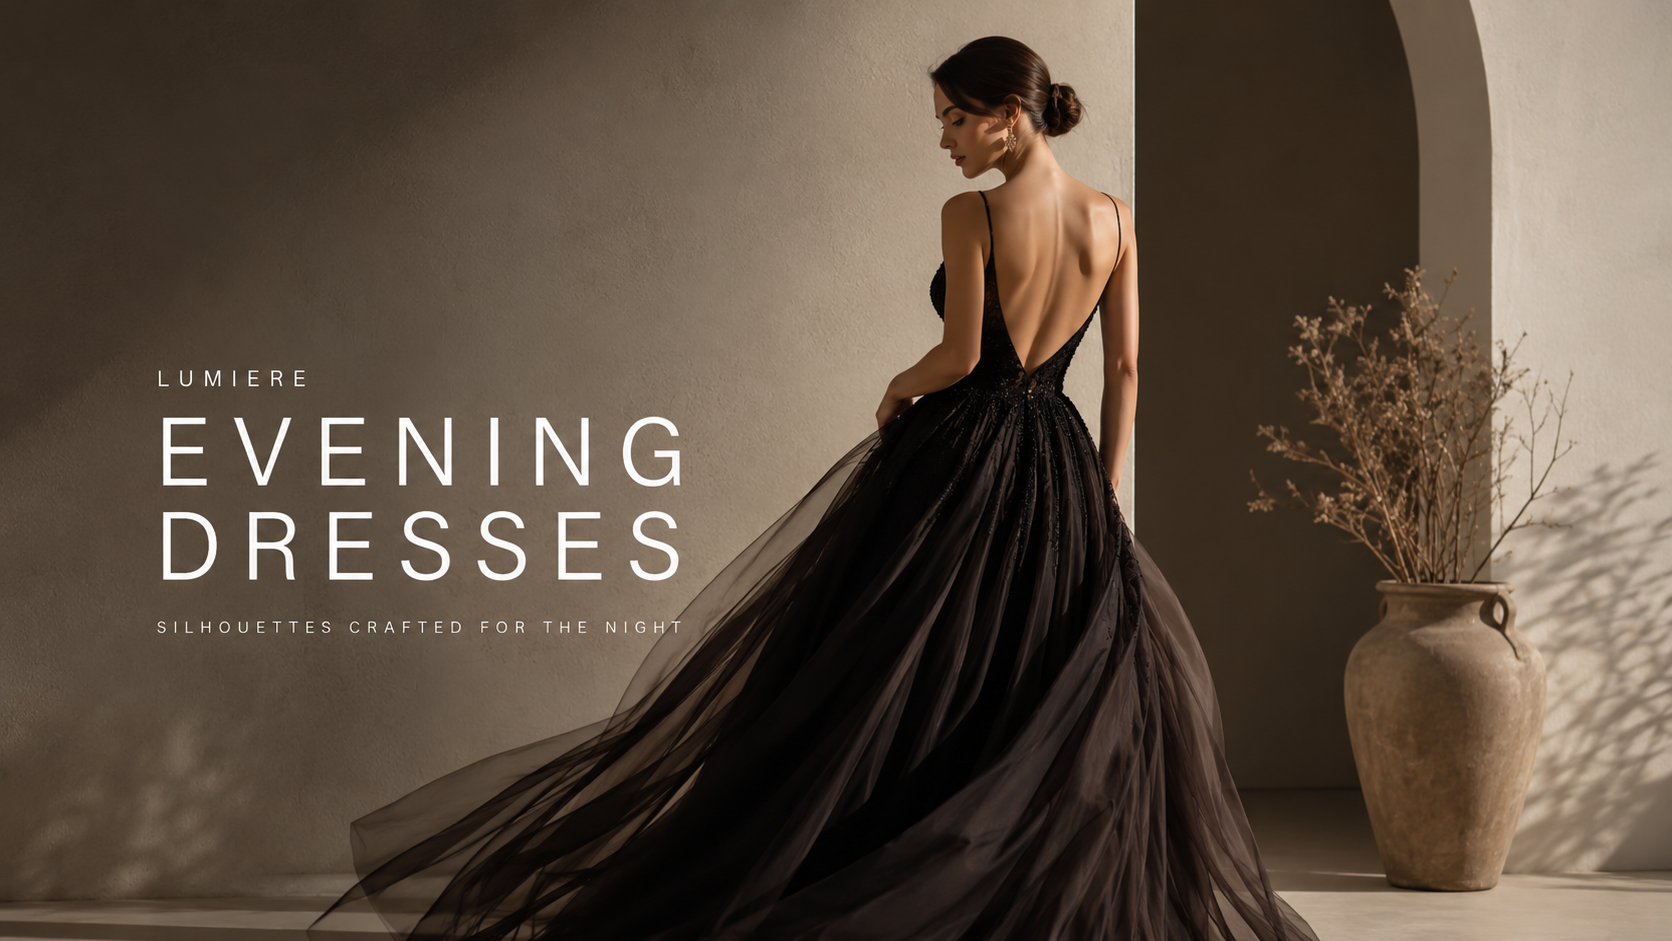
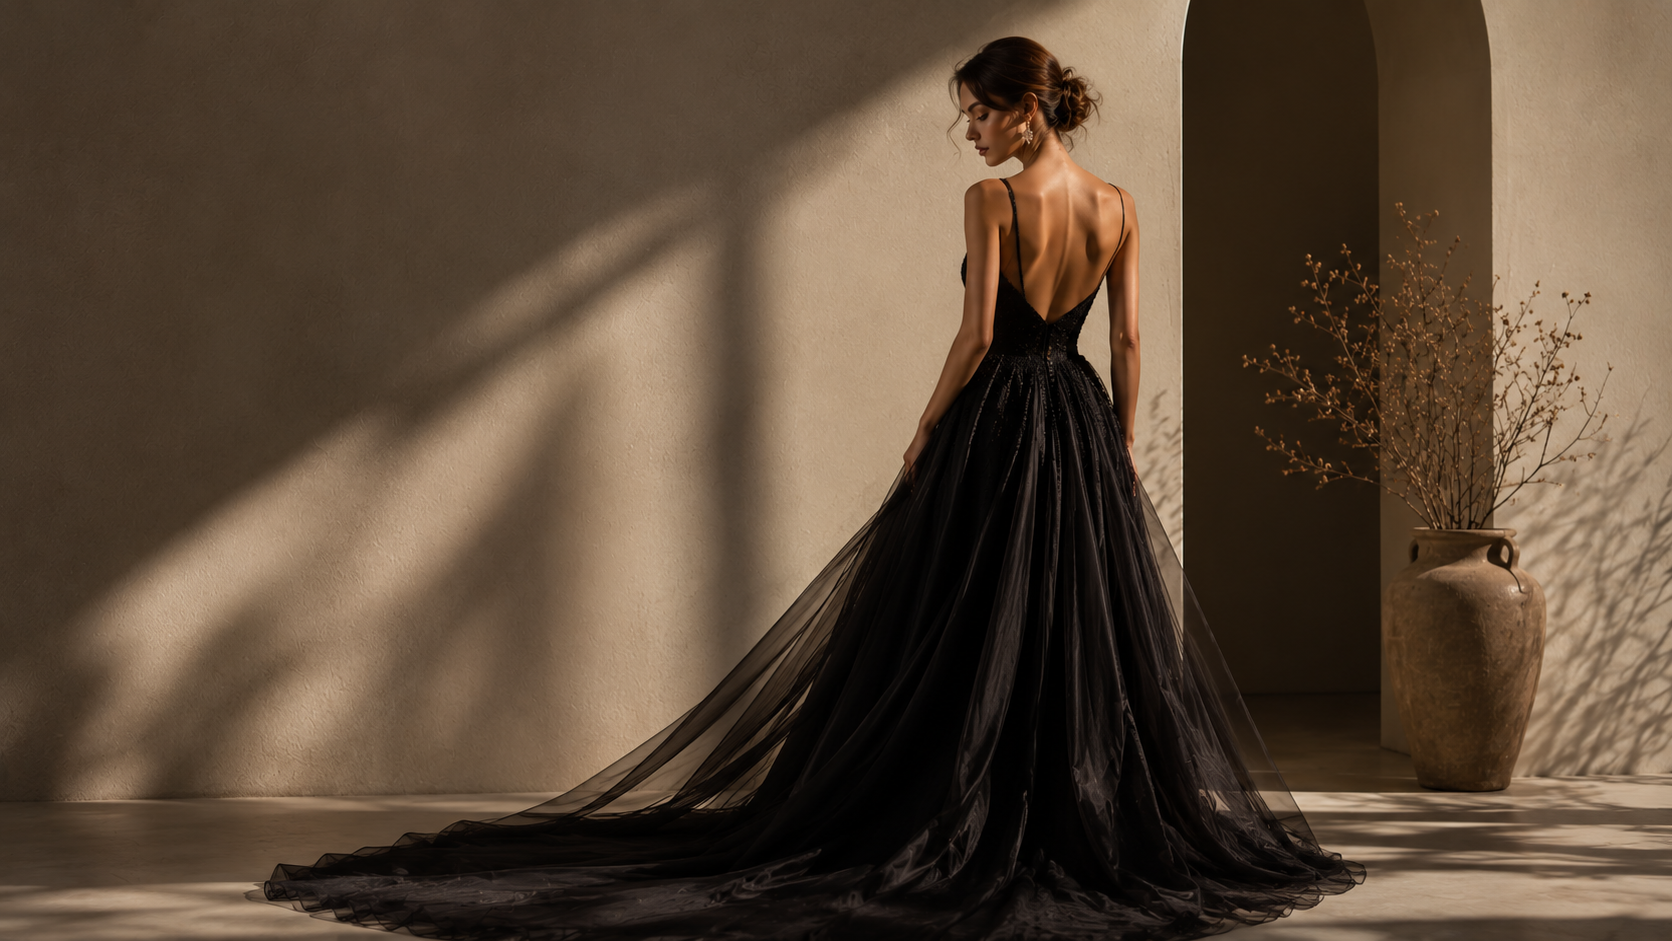
New hero image, scroll rotation effect, remove bottom gap

diff --git a/pages/evening-dresses.html b/pages/evening-dresses.html
@@ -138,6 +138,11 @@ COLLECTION HERO
 <section class="collection-hero">
 
 
+<img class="collection-hero-img"
+src="../images/evening-hero.png"
+alt="LUMIERE Evening Dresses">
+
+
 <div class="collection-hero-mask">
 </div>
 
@@ -548,6 +553,47 @@ sideMenu.classList.add("active");
 
 closeMenu.onclick=function(){
 sideMenu.classList.remove("active");
+}
+
+
+
+
+/* =====================
+HERO SCROLL ROTATION
+As user scrolls, the hero image
+subtly rotates on Y-axis, creating
+a model "turning" illusion.
+===================== */
+
+const heroImg = document.querySelector(".collection-hero-img");
+const heroSection = document.querySelector(".collection-hero");
+
+if(heroImg && heroSection){
+
+window.addEventListener("scroll",()=>{
+
+const rect = heroSection.getBoundingClientRect();
+const heroHeight = heroSection.offsetHeight;
+const scrollProgress = -rect.top / heroHeight;
+
+if(scrollProgress > 0 && scrollProgress < 1.5){
+
+heroImg.style.transform =
+"perspective(1200px) rotateY(" +
+(scrollProgress * 18) +
+"deg) scale(1.03)";
+
+}
+
+else if(scrollProgress <= 0){
+
+heroImg.style.transform =
+"perspective(1200px) rotateY(0deg) scale(1)";
+
+}
+
+});
+
 }
 
 

diff --git a/pages/pages.css b/pages/pages.css
@@ -1,8 +1,8 @@
 /* =====================
 COLLECTION HERO
 Fashion-editorial hero for collection subpages.
-Shorter than homepage (65vh), no parallax,
-refined border-style CTA.
+Uses <img> tag for scroll-rotation effect.
+Bottom fade removes hard gap to next section.
 ===================== */
 
 .collection-hero{
@@ -12,10 +12,21 @@ overflow:hidden;
 display:flex;
 align-items:center;
 justify-content:center;
-background:
-url("../images/evening-hero.png")
-center/cover no-repeat;
-background-position:center 30%;
+background:#0a0a0a;
+}
+
+
+.collection-hero-img{
+position:absolute;
+inset:0;
+width:100%;
+height:100%;
+object-fit:cover;
+object-position:center 25%;
+z-index:1;
+transition:
+transform 0.1s linear;
+will-change:transform;
 }
 
 
@@ -25,8 +36,10 @@ inset:0;
 background:
 linear-gradient(
 to bottom,
-rgba(0,0,0,.15),
-rgba(0,0,0,.45)
+rgba(0,0,0,.1),
+rgba(0,0,0,.3) 50%,
+rgba(0,0,0,.5) 75%,
+#f8f5ef
 );
 z-index:3;
 }
@@ -84,7 +97,7 @@ Reusable across all collection pages.
 ===================== */
 
 .collection-intro{
-padding:140px 10%;
+padding:80px 10% 140px;
 background:#f8f5ef;
 }
 